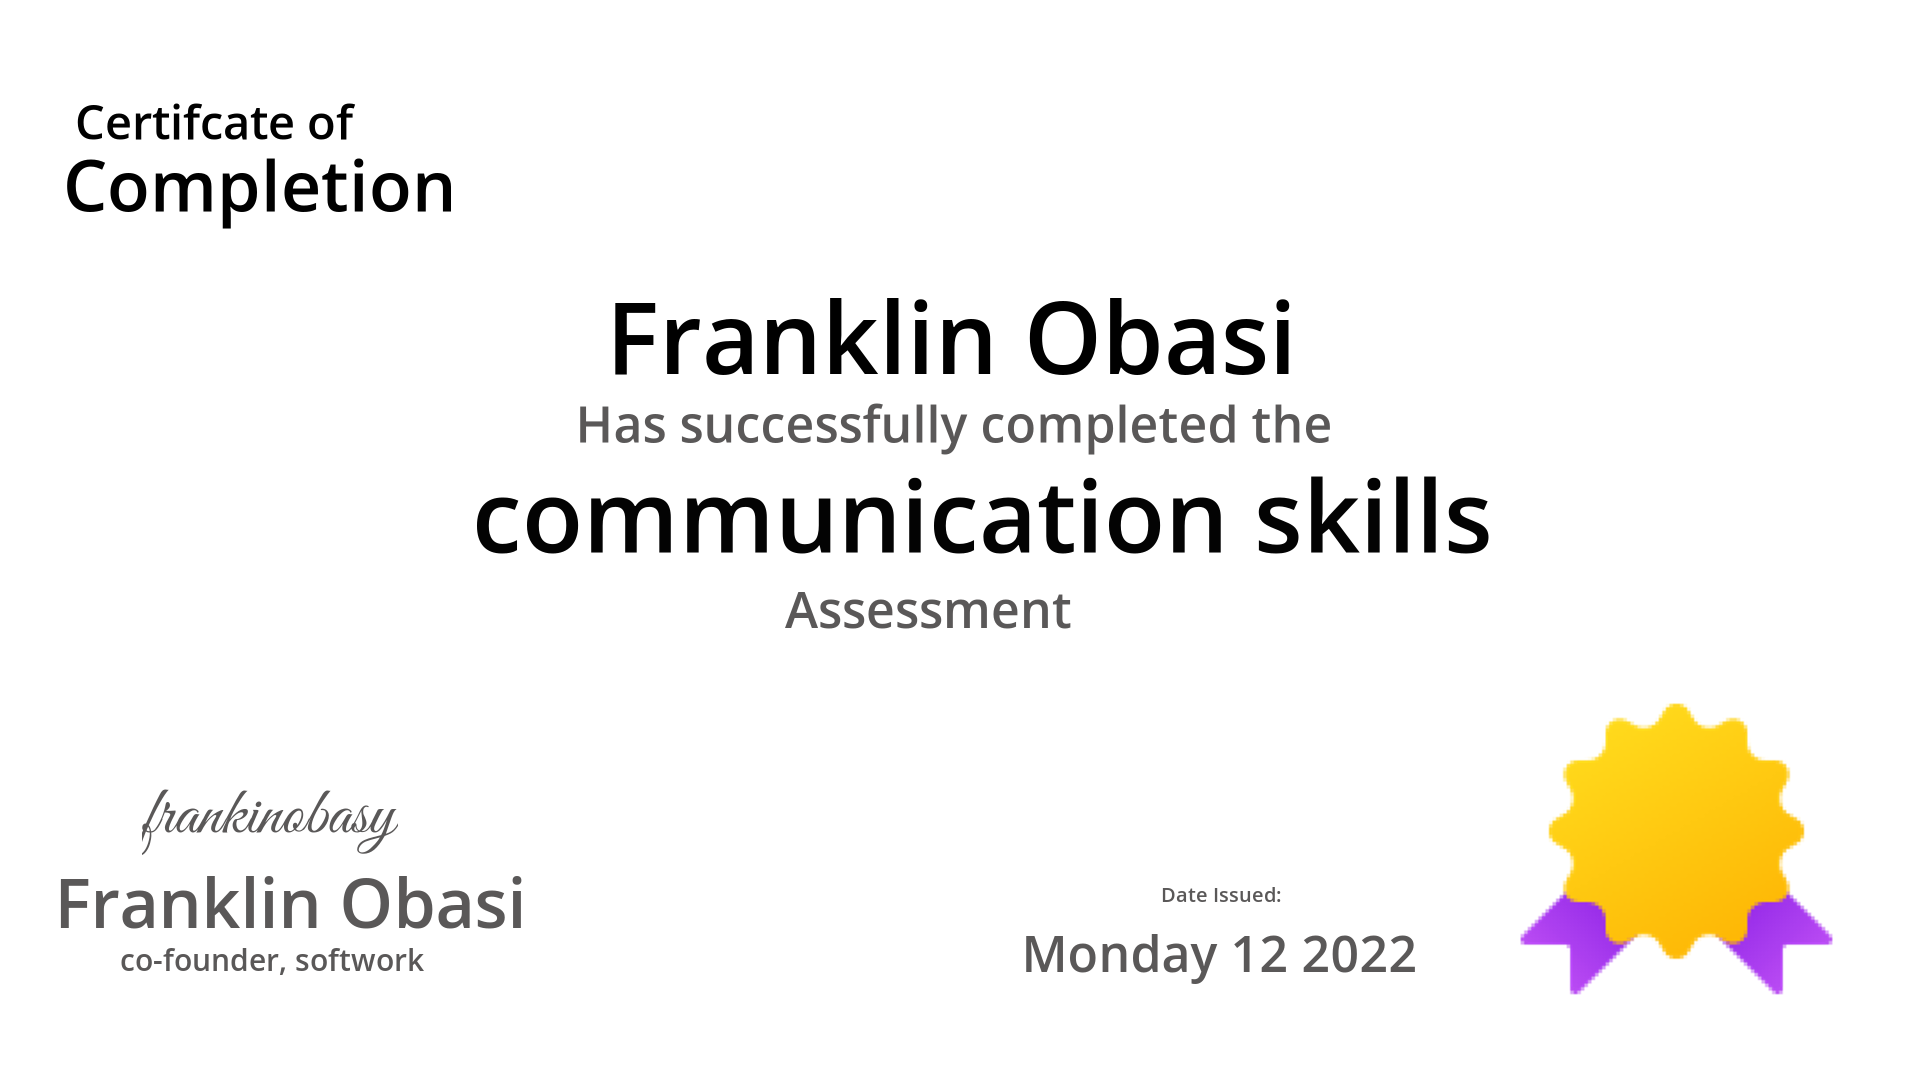
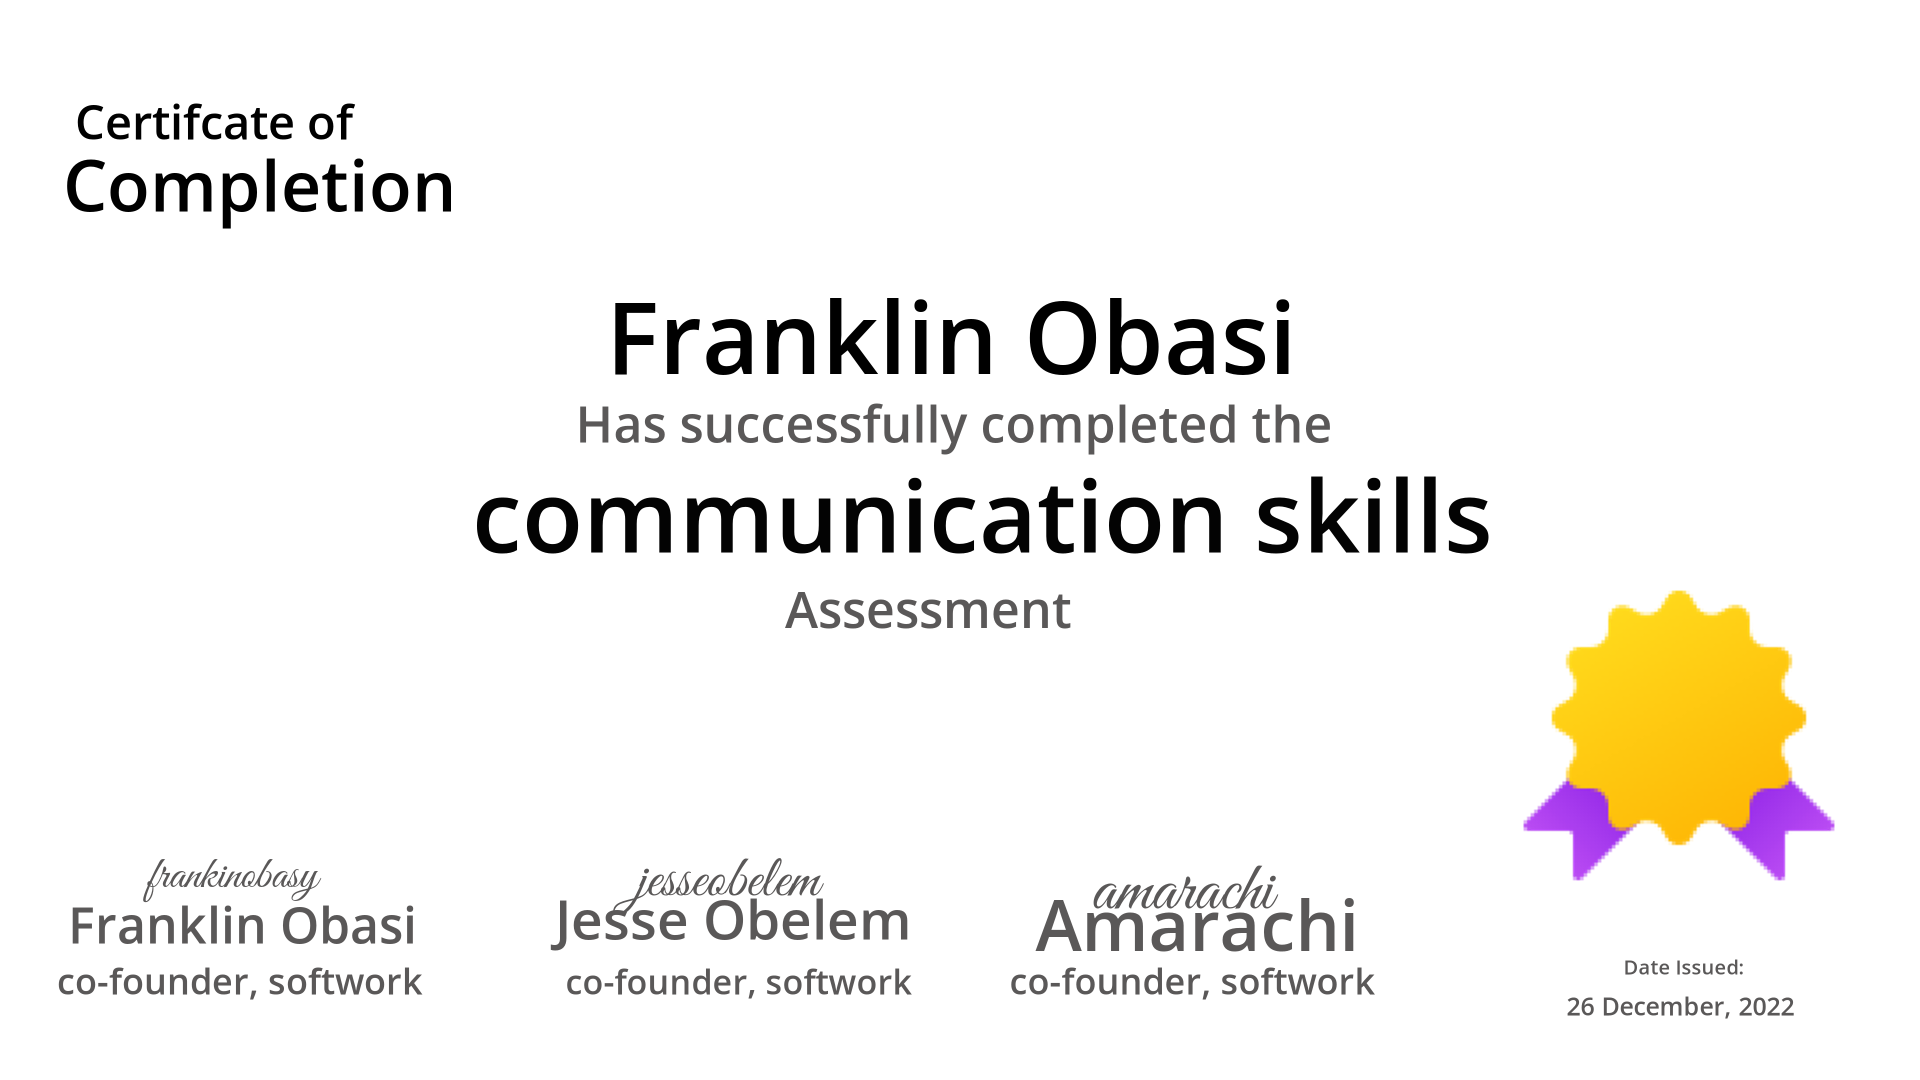
added change profile picture feature

Changed region(s): [[0.0312, 0.7333, 0.4688, 0.9167], [0.7812, 0.55, 0.9688, 0.9472], [0.5312, 0.7944, 0.75, 0.9167]]

diff --git a/web/static/js/change_profile_pic.js b/web/static/js/change_profile_pic.js
@@ -1,0 +1,87 @@
+//Bucket Configurations
+var bucketName = "fo-softwork-02";
+var bucketRegion = "us-east-1";
+var IdentityPoolId = 'us-east-1:879f7519-8eee-4923-a1ce-9a34ede8ad79';
+
+// AWS.config.update({
+//             region: bucketRegion,
+//             credentials: new AWS.CognitoIdentityCredentials({
+//                 IdentityPoolId: IdentityPoolId
+//         })
+//     });
+
+// var s3 = new AWS.S3({
+//         apiVersion: '2006-03-01',
+//         params: {Bucket: bucketName}
+// });
+
+const ID = 'AKIAQV5DXYVEDTUGUPB5';
+const SECRET = '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';
+
+const s3 = new AWS.S3({
+    accessKeyId: ID,
+    secretAccessKey: SECRET
+});
+
+const uploadFile = () => {
+    // Read content from the file
+    const albumName = "dps";
+    const username = document.getElementById('username').value;
+    const user_id = document.getElementById('user_id').value;
+    var files = document.getElementById("fileUpload").files;
+    if (!files.length) {
+        return alert("Please choose a file to upload first.");
+    }
+    var file = files[0];
+    var fileName = username + ".png";
+
+    var albumPhotosKey = encodeURIComponent(albumName) + "/";
+    var photoKey = albumPhotosKey + fileName;
+
+    // Setting up S3 upload parameters
+    const params = {
+        Bucket: bucketName,
+        Key: photoKey, // File name you want to save as in S3
+        Body: file
+    };
+
+    // Uploading files to the bucket
+    s3.upload(params, function(err, data) {
+        if (err) {
+            throw err;
+        }
+        console.log(`File uploaded successfully. ${data.Location}`);
+        const url = s3.getSignedUrl('getObject', {
+            Bucket: bucketName,
+            Key: photoKey,
+            Expires: 3600
+        });
+
+        document.getElementById("profile_pic").src = url;
+
+        fetch(`http://localhost:5000/api/v1/dp_status/${user_id}`,
+            {
+                method: 'POST',
+                headers: {
+                    'Accept': 'application/json',
+                    'Content-Type': 'application/json'
+                },
+                body: JSON.stringify({ status: true })
+            }
+        ).then(function (res) {
+            return res.json();
+        }).then(function (data) {
+            if (data.success === true) {
+                console.log("user profile picture modified");
+            }
+            else {
+                console.log("user profile picture failed to modify");
+            }
+        });
+        
+        console.log(`profile picture updated`);
+    });
+};
+
+
+      

diff --git a/web/profile/templates/profile/profile.html b/web/profile/templates/profile/profile.html
@@ -4,7 +4,7 @@
     <link rel="stylesheet" href="//use.fontawesome.com/releases/v5.0.7/css/all.css">
     <link rel="stylesheet" href="{{ url_for('static', filename='css/common.css') }}">
     <link rel="stylesheet" href="{{ url_for('static', filename='css/profile.css') }}">
-    <link rel="stylesheet" href="{{ url_for('static', filename='css/profile_pic.css') }}">
+    <!-- <link rel="stylesheet" href="{{ url_for('static', filename='css/profile_pic.css') }}"> -->
     <meta charset="UTF-8">
     <meta http-equiv="X-UA-Compatible" content="IE=edge">
     <meta name="viewport" content="width=device-width, initial-scale=1.0">
@@ -22,7 +22,13 @@
         <main class="main">
             <header class="banner">
                 <h1>welcome {{ first_name }} !!</h1>
-                <img src="{{ profile_pic }}" alt="">
+                <img id="profile_pic" src="{{ profile_pic }}" alt="">
+                <div>        
+                    <input type="file" id="fileUpload">    
+                 </div>    
+                 <div>
+                    <button onclick="uploadFile()">Submit</button>    
+                 </div>   
                 <!-- <div class="row">
                     <div class="small-12 medium-2 large-2 columns">
                       <div class="circle">
@@ -79,9 +85,11 @@
         </footer>
 
         <input id="user_id" type="hidden" name="user_id" value="{{ user_id }}">
+        <input id="username" type="hidden" name="username" value="{{ username }}">
     </div>
     <script src="https://code.jquery.com/jquery-3.2.1.min.js"></script>
     <script src="{{ url_for('static', filename='js/profile.js') }}" defer></script>
-    <script src="{{ url_for('static', filename='js/profile_pic.js') }}" defer></script>
+    <script src="{{ url_for('static', filename='js/change_profile_pic.js') }}" defer></script>
+    <script src="https://sdk.amazonaws.com/js/aws-sdk-2.1.24.min.js"></script>
 </body>
 </html>

diff --git a/web/tools/certificates1.py b/web/tools/certificates1.py
@@ -36,14 +36,32 @@ def get_url(data: dict) -> str:
             "assessment": {
                 "text": data.get("assessment", "")
             },
-            "signature": {
-                "text": data.get("signature", "")
+            "signature1": {
+                "text": data.get("signature1", "")
             },
-            "certifier": {
-                "text": data.get("certifier", "")
+            "certifier1": {
+                "text": data.get("certifier1", "")
             },
-            "certifier_title": {
-                "text": data.get("certifier_title", "")
+            "certifier_title1": {
+                "text": data.get("certifier_title1", "")
+            },
+            "signature2": {
+                "text": data.get("signature2", "")
+            },
+            "certifier2": {
+                "text": data.get("certifier2", "")
+            },
+            "certifier_title2": {
+                "text": data.get("certifier_title2", "")
+            },
+            "signature3": {
+                "text": data.get("signature3", "")
+            },
+            "certifier3": {
+                "text": data.get("certifier3", "")
+            },
+            "certifier_title3": {
+                "text": data.get("certifier_title3", "")
             },
             "date": {
                 "text": data.get("date", "")

diff --git a/web/certificate/routes.py b/web/certificate/routes.py
@@ -34,10 +34,16 @@ def load_cert(accessment_id):
     data = {
         "awardee_name": f"{current_user.first_name} {current_user.last_name}" ,
         "assessment": assessment.name.replace("_", " "),
-        "signature": "frankinobasy",
-        "certifier": "Franklin Obasi",
-        "certifier_title": "co-founder, softwork",
-        "date": datetime.now().strftime("%A %m %Y")
+        "signature1": "frankinobasy",
+        "certifier1": "Franklin Obasi",
+        "certifier_title1": "co-founder, softwork",
+        "signature2": "jesseobelem",
+        "certifier2": "Jesse Obelem",
+        "certifier_title2": "co-founder, softwork",
+        "signature3": "amarachi",
+        "certifier3": "Amarachi",
+        "certifier_title3": "co-founder, softwork",
+        "date": datetime.now().strftime("%d %B, %Y")
     }
 
     url = get_url(data)

diff --git a/web/api/v1/views/status.py b/web/api/v1/views/status.py
@@ -12,3 +12,17 @@ def get_status(user_id):
     user = storage.get('User', user_id)
     status = user.status
     return jsonify(status.to_dict())
+
+@app_views.route("/dp_status/<user_id>", methods=["POST"])
+def change_profile_pic(user_id):
+    if request.method == "POST":
+        if request.headers.get('Content-Type') == 'application/json':
+            data = request.json
+
+            if "status" in data  and type(data["status"]) == bool:
+                user = storage.get('User', user_id)
+                user.profile_pic = data["status"]
+                user.save()
+            return jsonify({'success': True})
+    
+    return jsonify({'success': False})

diff --git a/web/profile/routes.py b/web/profile/routes.py
@@ -15,9 +15,9 @@ def profile_page():
         link = get_aws_s3_link("default", "dps")
     else:
         link = get_aws_s3_link(current_user.username, "dps")
-        current_user.profile_pic = link
+        current_user.profile_pic = True
         storage.save()
-    print(link)
+        
     return render_template(
         "profile/profile.html",
         first_name=current_user.first_name,
@@ -30,3 +30,5 @@ def profile_page():
         user_id = current_user.id,
         profile_pic = link
     )
+
+

diff --git a/models/user.py b/models/user.py
@@ -25,7 +25,7 @@ class User(BaseModel, Base):
     email = Column(String(128), nullable=False, unique=True)
     password = Column(String(128), nullable=False)
     authenticated = Column(Boolean, default=False)
-    profile_pic = Column(String(128), default="")
+    profile_pic = Column(Boolean, default=False)
 
     assessments = relationship('Assessment', secondary='userAssessment', back_populates='users')
 

diff --git a/web/authenticate/routes.py b/web/authenticate/routes.py
@@ -97,7 +97,8 @@ def signup():
 
         storage.save()
 
-        return redirect(url_for("authenticate_views.login"))
+        login_user(user)
+        return redirect(url_for("profile_views.profile_page"))
 
     return render_template("authenticate/signup.html")
 

diff --git a/api/v1/views/status.py b/api/v1/views/status.py
@@ -12,3 +12,4 @@ def get_status(user_id):
     user = storage.get('User', user_id)
     status = user.status
     return jsonify(status.to_dict())
+
